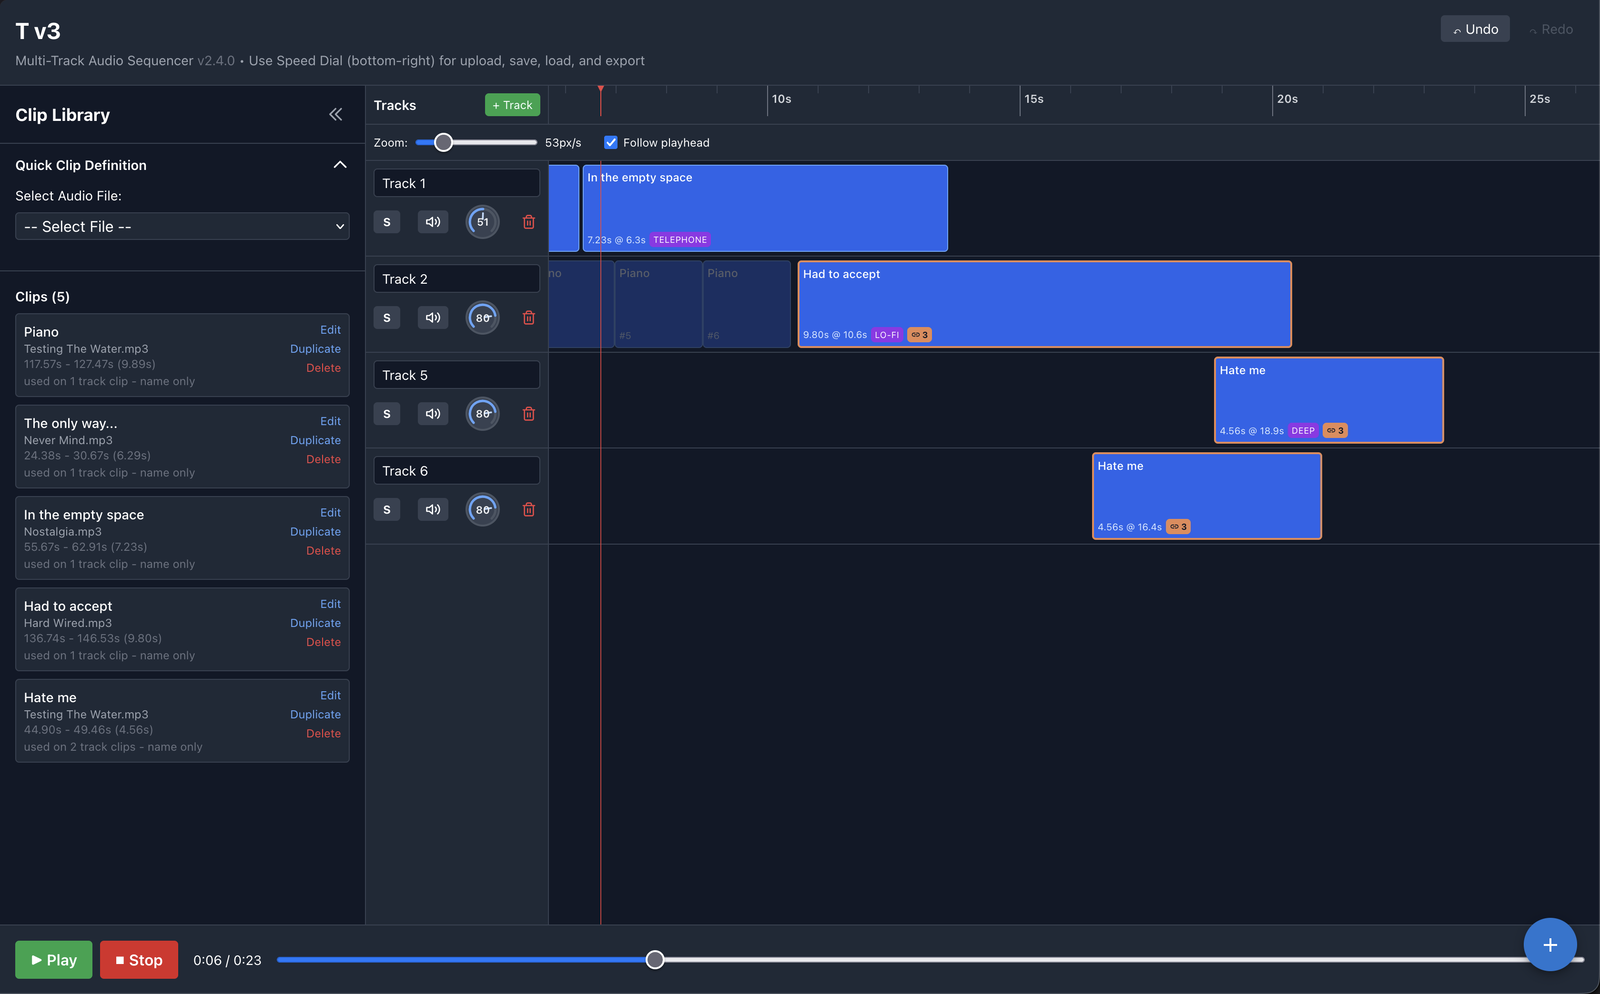
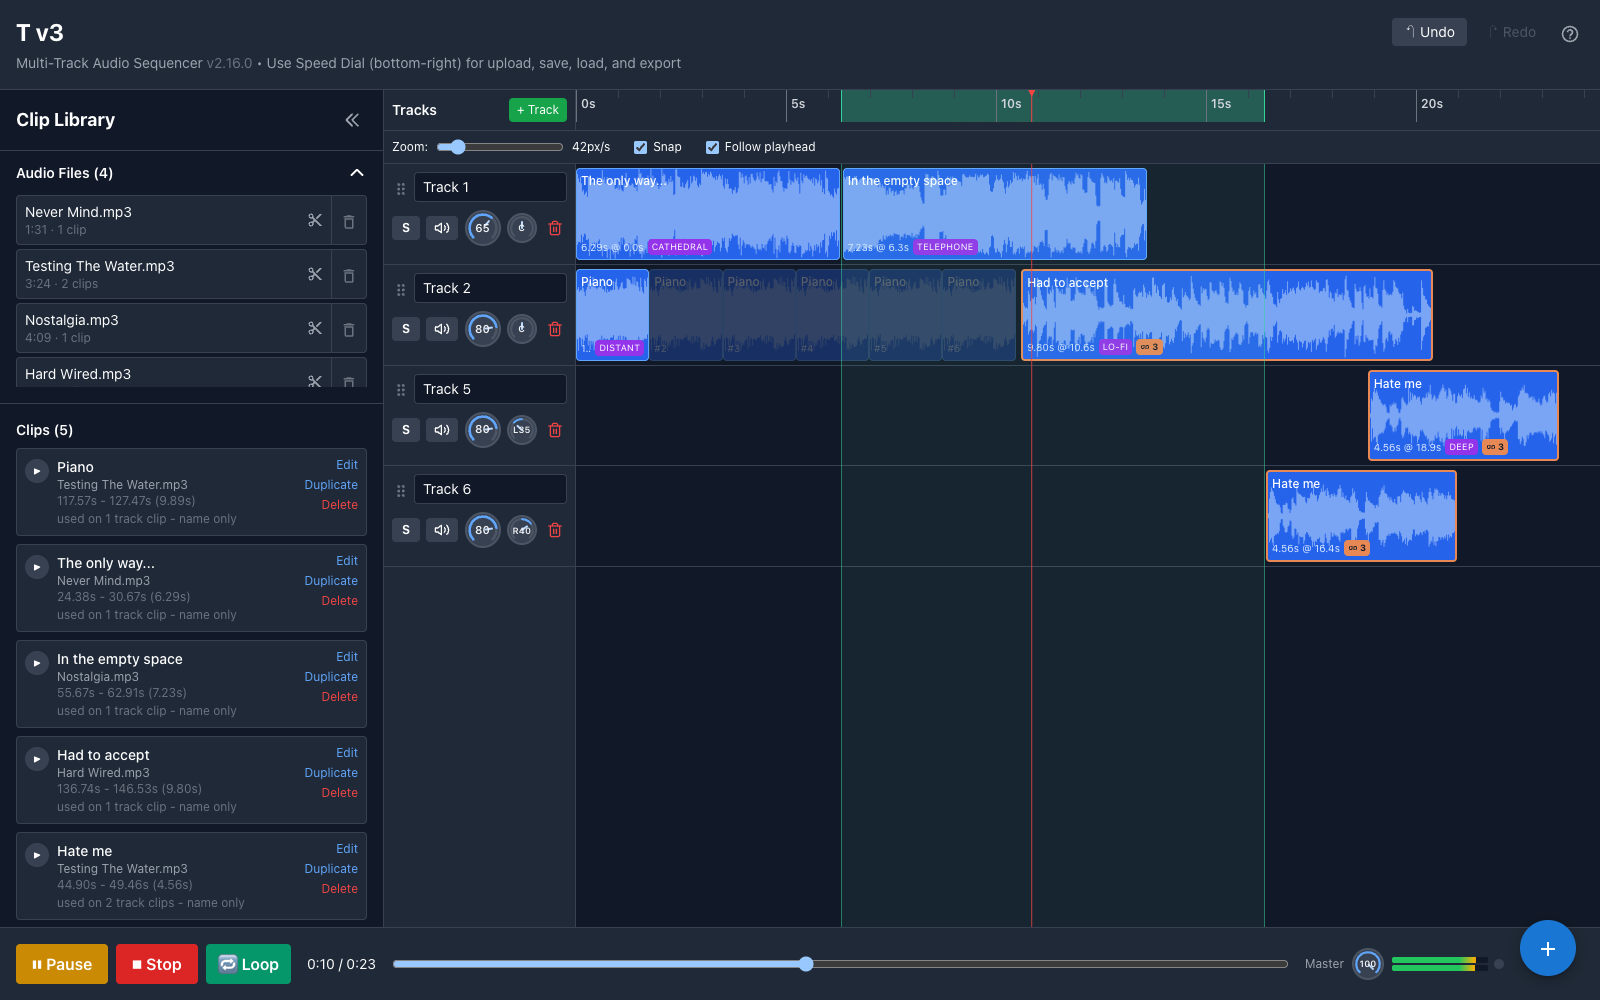
massembler: keep the timeline in view while the Clip Properties panel is open (v2.16.1)
Linking clips looked broken: Ctrl/Cmd-click still added a clip to the
selection, but the panel that opens on the first click took about
530 px of a 900 px window, leaving room for one track, so the next
clip to click was off screen.

The panel is now short and wide: the waveform on the left, 100 px
tall, then its controls in three columns (volume and effect; fades and
crossfade; repeat and position). It stays at 242 px with every field
showing, and never takes more than 40% of the window, scrolling inside
past that.

The README screenshot is retaken at v2.16.0 from the same project,
mid-playback in a loop, showing waveforms, links, pan, the Audio Files
list and the level meter.

diff --git a/massembler/src/components/ClipPropertiesPanel.tsx b/massembler/src/components/ClipPropertiesPanel.tsx
@@ -183,7 +183,7 @@ export function ClipPropertiesPanel() {
     // Initial sizing
     const rect = containerRef.current.getBoundingClientRect();
     const width = rect.width;
-    const height = 120;
+    const height = 100;
 
     canvasRef.current.width = width;
     canvasRef.current.height = height;
@@ -193,7 +193,7 @@ export function ClipPropertiesPanel() {
       if (canvasRef.current && containerRef.current) {
         const rect = containerRef.current.getBoundingClientRect();
         const width = rect.width;
-        const height = 120;
+        const height = 100;
 
         canvasRef.current.width = width;
         canvasRef.current.height = height;
@@ -364,7 +364,7 @@ export function ClipPropertiesPanel() {
 
   return (
     <div className="bg-gray-800 border-t border-gray-700 p-4">
-      <div className="flex items-center justify-between mb-3">
+      <div className="flex items-center justify-between mb-1">
         <div className="flex items-center gap-3">
           <h3 className="text-lg font-semibold text-white">Clip Properties: {clip.name}</h3>
           {groupSize > 0 && (
@@ -436,11 +436,12 @@ export function ClipPropertiesPanel() {
         </div>
       </div>
 
-      <div className="grid grid-cols-[1fr,300px] gap-4">
+      {/* Short and wide: the timeline above must keep its room. */}
+      <div className="flex gap-4 items-start max-h-[40vh] overflow-y-auto pt-2">
         {/* Waveform display */}
-        <div className="bg-gray-900 rounded-lg p-3">
-          <div className="mb-2 text-sm text-gray-400">
-            Waveform - Drag green/red handles to adjust fade in/out
+        <div className="flex-1 min-w-[16rem] bg-gray-900 rounded-lg p-3">
+          <div className="mb-1.5 text-xs text-gray-400">
+            Drag the green / red handles to fade in / out
           </div>
           <div ref={containerRef} className="w-full">
             <canvas
@@ -449,7 +450,7 @@ export function ClipPropertiesPanel() {
               onMouseDown={handleCanvasMouseDown}
             />
           </div>
-          <div className="mt-2 flex justify-between text-xs text-gray-500">
+          <div className="mt-1 flex justify-between text-xs text-gray-500">
             <span>{effectiveStartTime.toFixed(2)}s</span>
             <span>Duration: {effectiveDuration.toFixed(2)}s</span>
             <span>{effectiveEndTime.toFixed(2)}s</span>
@@ -457,49 +458,50 @@ export function ClipPropertiesPanel() {
         </div>
 
         {/* Controls */}
-        <div className="space-y-4">
-          {/* Volume */}
-          <div className="flex items-center gap-3">
-            <VolumeKnob
-              value={trackClip.gain ?? 1}
-              onChange={handleGainChange}
-              max={2}
-              defaultValue={1}
-              label="Clip volume"
-              size={40}
-            />
-            <div className="text-sm text-gray-300">
-              Volume
-              <div className="text-xs text-gray-500">100 plays it as recorded; up to 200</div>
+        <div className="grid grid-cols-3 gap-4 w-[46rem] shrink-0">
+          {/* The sound: volume and effect */}
+          <div className="space-y-3">
+            <div className="flex items-center gap-3">
+              <VolumeKnob
+                value={trackClip.gain ?? 1}
+                onChange={handleGainChange}
+                max={2}
+                defaultValue={1}
+                label="Clip volume"
+                size={36}
+              />
+              <div className="text-sm text-gray-300">
+                Volume
+                <div className="text-xs text-gray-500">100 as recorded, up to 200</div>
+              </div>
+            </div>
+
+            <div>
+              <div className="text-xs mb-1.5 text-gray-400">Effect</div>
+              <div className="flex flex-wrap gap-1.5">
+                {CLIP_EFFECTS.map((option) => {
+                  const isActive = currentEffect === option.id;
+                  return (
+                    <button
+                      key={option.id}
+                      onClick={() => handleEffectChange(option.id)}
+                      title={option.description}
+                      className={`px-2.5 py-0.5 rounded-full text-xs border transition-colors ${
+                        isActive
+                          ? 'bg-blue-600 border-blue-400 text-white'
+                          : 'bg-gray-900 border-gray-700 text-gray-300 hover:border-gray-500'
+                      }`}
+                    >
+                      {option.label}
+                    </button>
+                  );
+                })}
+              </div>
             </div>
           </div>
 
-          {/* Effect */}
-          <div>
-            <div className="text-sm mb-2 text-gray-300">Effect</div>
-            <div className="flex flex-wrap gap-2">
-              {CLIP_EFFECTS.map((option) => {
-                const isActive = currentEffect === option.id;
-                return (
-                  <button
-                    key={option.id}
-                    onClick={() => handleEffectChange(option.id)}
-                    title={option.description}
-                    className={`px-3 py-1 rounded-full text-sm border transition-colors ${
-                      isActive
-                        ? 'bg-blue-600 border-blue-400 text-white'
-                        : 'bg-gray-900 border-gray-700 text-gray-300 hover:border-gray-500'
-                    }`}
-                  >
-                    {option.label}
-                  </button>
-                );
-              })}
-            </div>
-          </div>
-
-          {/* Fade In */}
-          <div>
+          {/* How it starts and ends */}
+          <div className="space-y-3">
             <NumberField
               label="Fade In (seconds)"
               value={fadeIn}
@@ -509,10 +511,6 @@ export function ClipPropertiesPanel() {
               step={0.1}
               decimals={2}
             />
-          </div>
-
-          {/* Fade Out */}
-          <div>
             <NumberField
               label="Fade Out (seconds)"
               value={fadeOut}
@@ -522,14 +520,12 @@ export function ClipPropertiesPanel() {
               step={0.1}
               decimals={2}
             />
-          </div>
 
-          {/* Crossfade with the clip before */}
-          <div>
+            {/* Crossfade with the clip before */}
             {touching ? (
-              <>
+              <div>
                 <NumberField
-                  label="Crossfade with the clip before (seconds)"
+                  label="Crossfade with clip before (s)"
                   value={askedCrossfade}
                   onChange={handleCrossfadeChange}
                   min={0}
@@ -543,7 +539,7 @@ export function ClipPropertiesPanel() {
                     or by the length of a clip.
                   </p>
                 )}
-              </>
+              </div>
             ) : (
               <p className="text-xs text-gray-500">
                 To crossfade with another clip, place this one right where that one ends -
@@ -552,13 +548,14 @@ export function ClipPropertiesPanel() {
             )}
           </div>
 
-          {/* Repeat */}
-          <div>
+          {/* Repeating, and where it sits */}
+          <div className="space-y-2">
             <FormControlLabel
               control={
                 <Checkbox
                   checked={repeat}
                   onChange={(e) => handleRepeatChange(e.target.checked)}
+                  size="small"
                   sx={{ color: 'rgba(255, 255, 255, 0.7)' }}
                 />
               }
@@ -566,21 +563,15 @@ export function ClipPropertiesPanel() {
               sx={{ color: 'white' }}
             />
             {repeat && (
-              <div className="mt-2">
-                <NumberField
-                  label="Repeat Count"
-                  value={repeatCount}
-                  onChange={handleRepeatCountChange}
-                  min={1}
-                  max={100}
-                />
-              </div>
+              <NumberField
+                label="Repeat Count"
+                value={repeatCount}
+                onChange={handleRepeatCountChange}
+                min={1}
+                max={100}
+              />
             )}
-          </div>
-
-          {/* Position info */}
-          <div className="pt-4 border-t border-gray-700">
-            <div className="text-sm text-gray-400 space-y-1">
+            <div className="pt-2 border-t border-gray-700 text-xs text-gray-400 space-y-0.5">
               <div>Position: {trackClip.position.toFixed(2)}s</div>
               <div>Track: {track?.name}</div>
             </div>

diff --git a/massembler/README.md b/massembler/README.md
@@ -4,7 +4,7 @@ A web-based multi-track audio sequencer that allows you to upload audio files, c
 
 **▶ [Try it live](https://jeanlazarou.github.io/mazy-suite/massembler/)** — part of the [Mazy Suite](https://jeanlazarou.github.io/mazy-suite/). Everything runs in the browser; no audio is uploaded anywhere.
 
-![The clip library beside a four-track arrangement: three clips across three tracks share an orange border and link badge marking them as one group, clips carry Telephone, Lo-fi and Deep effect badges, a repeated clip trails its phantom copies, and the red playhead sits mid-playback](docs/screenshots/main-view.png)
+![The clip library, its audio files above the clips, beside a four-track arrangement playing inside a loop: every clip shows its waveform, three clips across three tracks share an orange border and link badge marking them as one group, clips carry Cathedral, Telephone, Distant, Lo-fi and Deep effect badges, a repeated Piano clip trails its phantom copies, a green loop region spans the ruler from 6.3 s to 16.4 s, two tracks are panned left and right, and the level meter beside the master knob is lit](docs/screenshots/main-view.png)
 
 ## 🎉 Major Features
 
